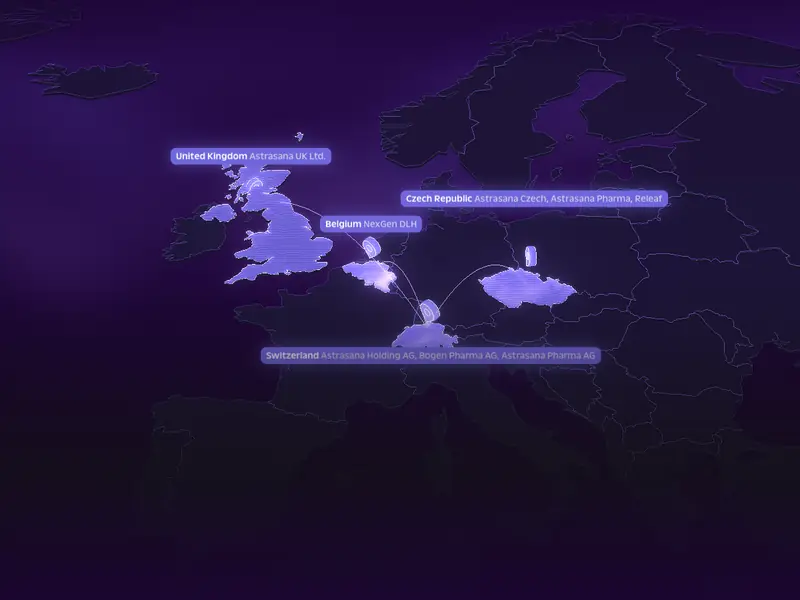
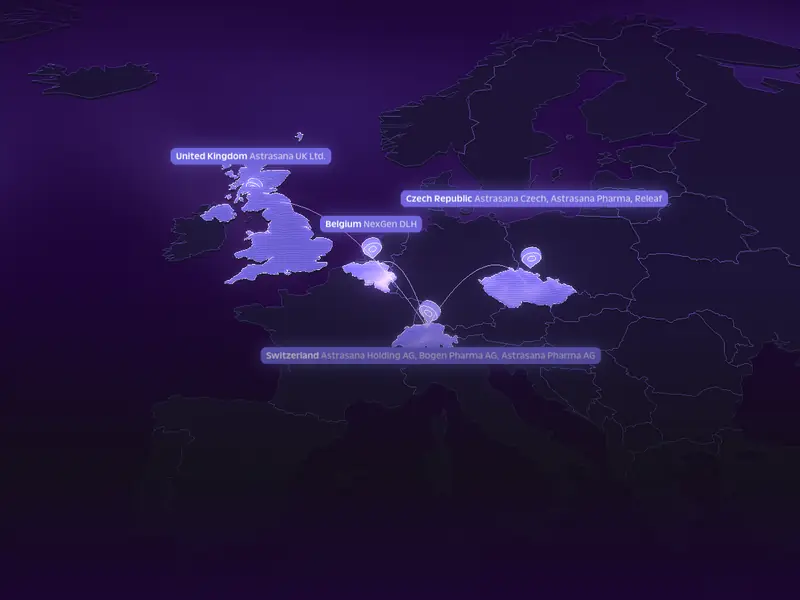
Glass balls as parcels, pins that face the viewer, shorter scroll
Parcels are now glass spheres and a pharmacy pin only appears once its
parcel lands. Location pins turn to face the camera and sway gently
instead of spinning edge-on. The story needs about a third less scroll.

diff --git a/index.html b/index.html
@@ -215,7 +215,7 @@ html{scroll-padding-top:96px}
 /* story page: the stage starts at the very top, full bleed, like a film */
 @property --rv{syntax:'<percentage>';inherits:false;initial-value:100%}
 .story{padding-top:0}
-.story .hist-track{height:2650vh;margin-top:0}
+.story .hist-track{height:1850vh;margin-top:0}
 /* one menu: inside the story the rail carries the sections, the top bar keeps the logo and Contact */
 .story .hist-rail{gap:0;padding:8px 0;border-radius:16px;background:var(--surface);box-shadow:inset 0 0 0 1px var(--line-2),0 16px 40px -16px rgba(0,0,0,.7)}
 .story .hist-rail li{display:flex}
@@ -1583,7 +1583,7 @@ M14233 4172 c-13 -4 -32 -15 -43 -24 -20 -18 -20 -28 -20 -667 0 -650 0 -650
 <script>
 document.documentElement.classList.add('js');
 /* scroll to story position: the partners chapter (8.5 to 9.5) is stretched five times */
-var STW=[[-.98,-.5,3],[1.45,5.5,.04],[5.6,7.4,1.8],[7.55,8.45,4],[8.5,9.5,5]];
+var STW=[[-.98,-.5,2],[1.45,5.5,.04],[5.6,7.4,1.3],[7.55,8.45,3],[8.5,9.5,3.4]];
 function stwK(N){ var k=[[-1,0]], F=-1, s=0; STW.forEach(function(g){ s+=g[0]-F; k.push([g[0],s]); s+=(g[1]-g[0])*g[2]; k.push([g[1],s]); F=g[1]; }); s+=N-1-F; k.push([N-1,s]); return k; }
 function stwF(p,N){ var k=stwK(N), s=p*k[k.length-1][1]; for(var i=1;i<k.length;i++) if(s<=k[i][1]) return k[i-1][0]+(k[i][0]-k[i-1][0])*(s-k[i-1][1])/(k[i][1]-k[i-1][1]); return N-1; }
 function stwP(F,N){ var k=stwK(N); for(var i=1;i<k.length;i++) if(F<=k[i][0]) return (k[i-1][1]+(k[i][1]-k[i-1][1])*(F-k[i-1][0])/(k[i][0]-k[i-1][0]))/k[k.length-1][1]; return 1; }
@@ -2214,7 +2214,7 @@ function stwP(F,N){ var k=stwK(N); for(var i=1;i<k.length;i++) if(F<=k[i][0]) re
     var PH=[['Rosengarten Apotheke, Kloten',8.6310,47.4430],['Stauffacher-Apotheke, Zurich',8.5279,47.3730],['Apotheke Unitobler, Bern',7.4301,46.9551],['Alpstein Apotheke, Swiss Bio Pharma',9.2849,47.3539],['Apotheke Sumiswald',7.7444,47.0291],['Apotheke zur Waage, Basel',7.5894,47.5775],['Farmacia Camorino',9.0015,46.1670],['Farmacia Cattaneo, Lugano',8.9510,46.0046],['Farmacia Fenice, Bellinzona',9.0139,46.1784],['Farmacia Fiore, Locarno',8.7879,46.1685],['Farmacia Internazionale dr. Merloni',9.0316,45.8330],['Farmacia Portone, Bellinzona',9.0231,46.1939],['Farmacia San Nicolao, Lugano',8.9437,46.0059],['TopPharm Apotheke Wuelflingen, Winterthur',8.6936,47.5107],['TopPharm Limmatplatz Apotheke, Zurich',8.5323,47.3839],['Sonnen-Apotheke, Zurich',8.5459,47.3681]];
     var parcels=[], pinGeo=new THREE.CylinderGeometry(.06,.06,2.6,8), headGeo=new THREE.SphereGeometry(.48,18,12);
     var pinMat=new THREE.MeshBasicMaterial({color:0xe9fff8,transparent:true,opacity:0,fog:false}); mapMats.push([pinMat,.95]);
-    var parcelGeo=new THREE.BoxGeometry(1,1,1), parcelMat=glassMat({rim:1.6,body:'vec3(.36,.22,.62)',a:'.6'}); mapMats.push([parcelMat,1,true]);
+    var parcelGeo=new THREE.SphereGeometry(.62,24,16), parcelMat=glassMat({rim:1.8,body:'vec3(.42,.3,.72)',a:'.62'}); mapMats.push([parcelMat,1,true]);
     PH.forEach(function(ph,i){ var to=mapL(ph[1],ph[2],0);
       var pin=new THREE.Group(); pin.position.copy(to); map.add(pin);
       var stem=new THREE.Mesh(pinGeo,pinMat); stem.rotation.x=Math.PI/2; stem.position.z=1.3; pin.add(stem); var head=new THREE.Mesh(headGeo,pinMat); head.position.z=2.7; pin.add(head);
@@ -2236,8 +2236,8 @@ function stwP(F,N){ var k=stwK(N); for(var i=1;i<k.length;i++) if(F<=k[i][0]) re
       var bt=ss(.16,.74,p); batch.visible=p>.14&&p<.76; curve.getPointAt(Math.min(1,bt),tmp); batch.position.copy(tmp); batch.scale.setScalar(.9*(1-ss(.72,.76,p))+.001); batch.rotation.y=p*9;
       var h=ss(.3,.42,p); hq.visible=h>.001; hqMats.forEach(function(m){ m.uniforms.op.value=h; m.uniforms.fl.value=.6*Math.max(0,1-Math.abs(batch.position.x-12.5)/4)*(batch.visible?1:0); }); hq.userData.lines.material.opacity=.6*h; hq.userData.door.material.opacity=.5*h*Math.max(0,1-Math.abs(batch.position.x-12.5)/3); pools[2].userData.o=.24*h;
       var mp=ss(.6,.72,p); map.visible=mp>.001; mapMats.forEach(function(a){ if(a[2]) a[0].uniforms.op.value=mp; else a[0].opacity=a[1]*mp; }); kloDot.material.opacity=ss(.7,.76,p); var kp=(p*14)%1; kloRing.scale.setScalar(1+kp*1.6); kloRing.material.opacity=.6*(1-kp)*ss(.7,.76,p); pools[3].userData.o=.3*mp;
-      parcels.forEach(function(q){ var u=ss(q.t0,q.t0+.12,p); q.arc.geometry.setDrawRange(0,Math.round(61*u)); q.arc.material.opacity=.6*mp; q.m.visible=u>.001&&u<.999; if(q.m.visible){ q.cv.getPoint(u,tmp); q.m.position.copy(tmp); q.m.rotation.set(u*4,u*6,0); }
-        var land=ss(q.t0+.1,q.t0+.16,p); q.pin.scale.set(1,1,Math.max(.001,.25+.75*ss(q.t0+.1,q.t0+.13,p))); q.ring.scale.setScalar(1+land*2.4); q.ring.material.opacity=.7*(land>0&&land<1?1-land:0)*mp; }); }
+      parcels.forEach(function(q){ var u=ss(q.t0,q.t0+.12,p); q.arc.geometry.setDrawRange(0,Math.round(61*u)); q.arc.material.opacity=.6*mp; q.m.visible=u>.001&&u<.999; if(q.m.visible){ q.cv.getPoint(u,tmp); q.m.position.copy(tmp); }
+        var land=ss(q.t0+.1,q.t0+.16,p); var pg=ss(q.t0+.1,q.t0+.14,p); q.pin.visible=pg>.001; q.pin.scale.set(1,1,Math.max(.001,pg)); q.ring.scale.setScalar(1+land*2.4); q.ring.material.opacity=.7*(land>0&&land<1?1-land:0)*mp; }); }
     function camLocal(p,pos,look){ var i=0; while(i<K.length-2&&p>K[i+1][0]) i++; var a=K[i], b=K[i+1], u=ss(a[0],b[0],p);
       var tx=a[1]+(b[1]-a[1])*u, ty=a[2]+(b[2]-a[2])*u, d=a[3]+(b[3]-a[3])*u; look.set(tx-d*.04,ty+d*.03,0); pos.set(look.x+d*.12,look.y+d*.22,d); jg.localToWorld(look); jg.localToWorld(pos); }
     var lastP=-1;
@@ -2473,7 +2473,7 @@ function stwP(F,N){ var k=stwK(N); for(var i=1;i<k.length;i++) if(F<=k[i][0]) re
       if(D.names&&D.k>=1){ D.timer+=dt; if(D.timer>4.6){ D.timer=0; D.tg=1-D.tg; D.lbl.innerHTML=D.names[D.tg]; } } else if(D.names&&D.k<.05&&D.tg!==0){ D.tg=0; D.mx=0; D.timer=0; D.lbl.innerHTML=D.names[0]; }
       D.mx+=((D.tg)-D.mx)*Math.min(1,dt*1.6); D.u.mx.value=D.mx; if(D.pts) D.pts.rotation.y=Math.sin(uT.value*.3)*.08; });
     jr.labels(f,cam,canvas.clientWidth,canvas.clientHeight);
-    markers.forEach(function(M){ M.rotation.y=uT.value*.7+M.userData.ph; var mo=M.children[0].material.opacity; M.visible=mo>.5; });
+    var mwp=new THREE.Vector3(); markers.forEach(function(M){ M.getWorldPosition(mwp); M.rotation.y=Math.atan2(cam.position.x-mwp.x,cam.position.z-mwp.z)+Math.sin(uT.value*.9+M.userData.ph)*.45; var mo=M.children[0].material.opacity; M.visible=mo>.5; });
     cards.forEach(function(K){ var on=gI<.05&&chap>=K.ch[0]&&chap<=K.ch[1]&&Math.abs(f-chap)<.45; K.k=on?Math.min(1,K.k+dt*1.1):Math.max(0,K.k-dt*2.5); var e=Math.max(0,Math.min(1,(K.k-K.dl)/(1-K.dl))); e=1-Math.pow(1-e,3);
       K.o.visible=e>.005; K.o.scale.set(1,Math.max(.001,e),1); K.o.position.y=K.y-(1-e)*3+Math.sin(uT.value*.8+K.ph)*.7*e; K.o.quaternion.copy(cam.quaternion);
       if(K.ring){ var ra=K.ring.a0-(window.__pa||0)*Math.PI/3; K.o.position.x=K.ring.c.x+Math.sin(ra)*K.ring.r; K.o.position.z=K.ring.c.z+Math.cos(ra)*K.ring.rz; } });
